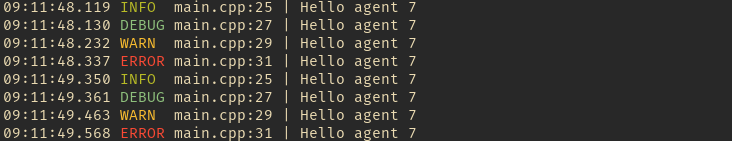
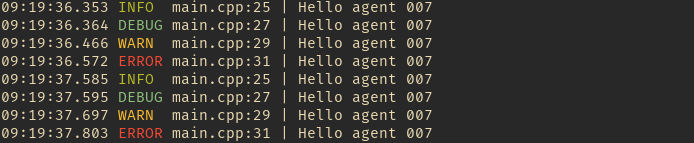
updated

diff --git a/README.md b/README.md
@@ -8,10 +8,10 @@ all last logged are in /tmp/vex_last_log.txt;
 ## How to use
 
 ```cpp
-log_info("Hello agent %d", 007);
-log_warn("Hello agent %d", 007);
-log_debug("Hello agent %d", 007);
-log_error("Hello agent %d", 007);
+log_info("Hello agent %s", "007");
+log_warn("Hello agent %s", "007");
+log_debug("Hello agent %s", "007");
+log_error("Hello agent %s", "007");
 
 ```
 
